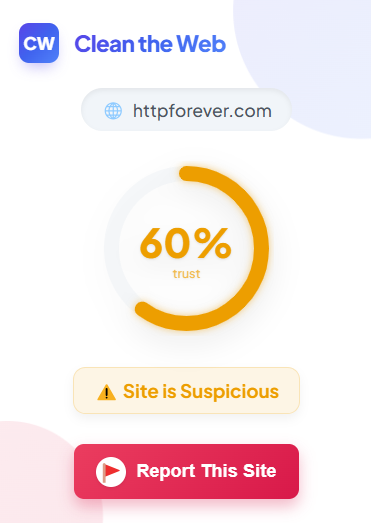
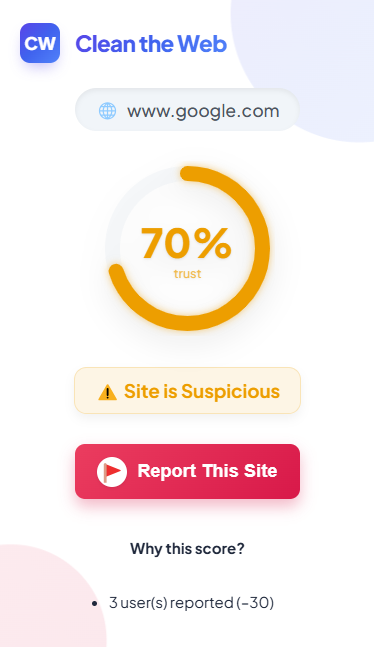
Updated the pngs of the differnt types of outcomes in README

diff --git a/README.md b/README.md
@@ -53,7 +53,8 @@ It uses **real technical signals** like SSL certificates, domain age, suspicious
 <div align="center">
   <img src="trust.png" width="30%" style="border-radius: 12px; margin-right: 10px;"/>
   <img src="suspicious.png" width="30%" style="border-radius: 12px; margin-right: 10px;"/>
-  <img src="scam.png" width="30%" style="border-radius: 12px;"/>
+  <img src="nossl.png" width="30%" style="border-radius: 12px;"/>
+  <img src="googlesafebrowsing.png" width="30%" style="border-radius: 12px;"/>
 </div>
 
 ---
